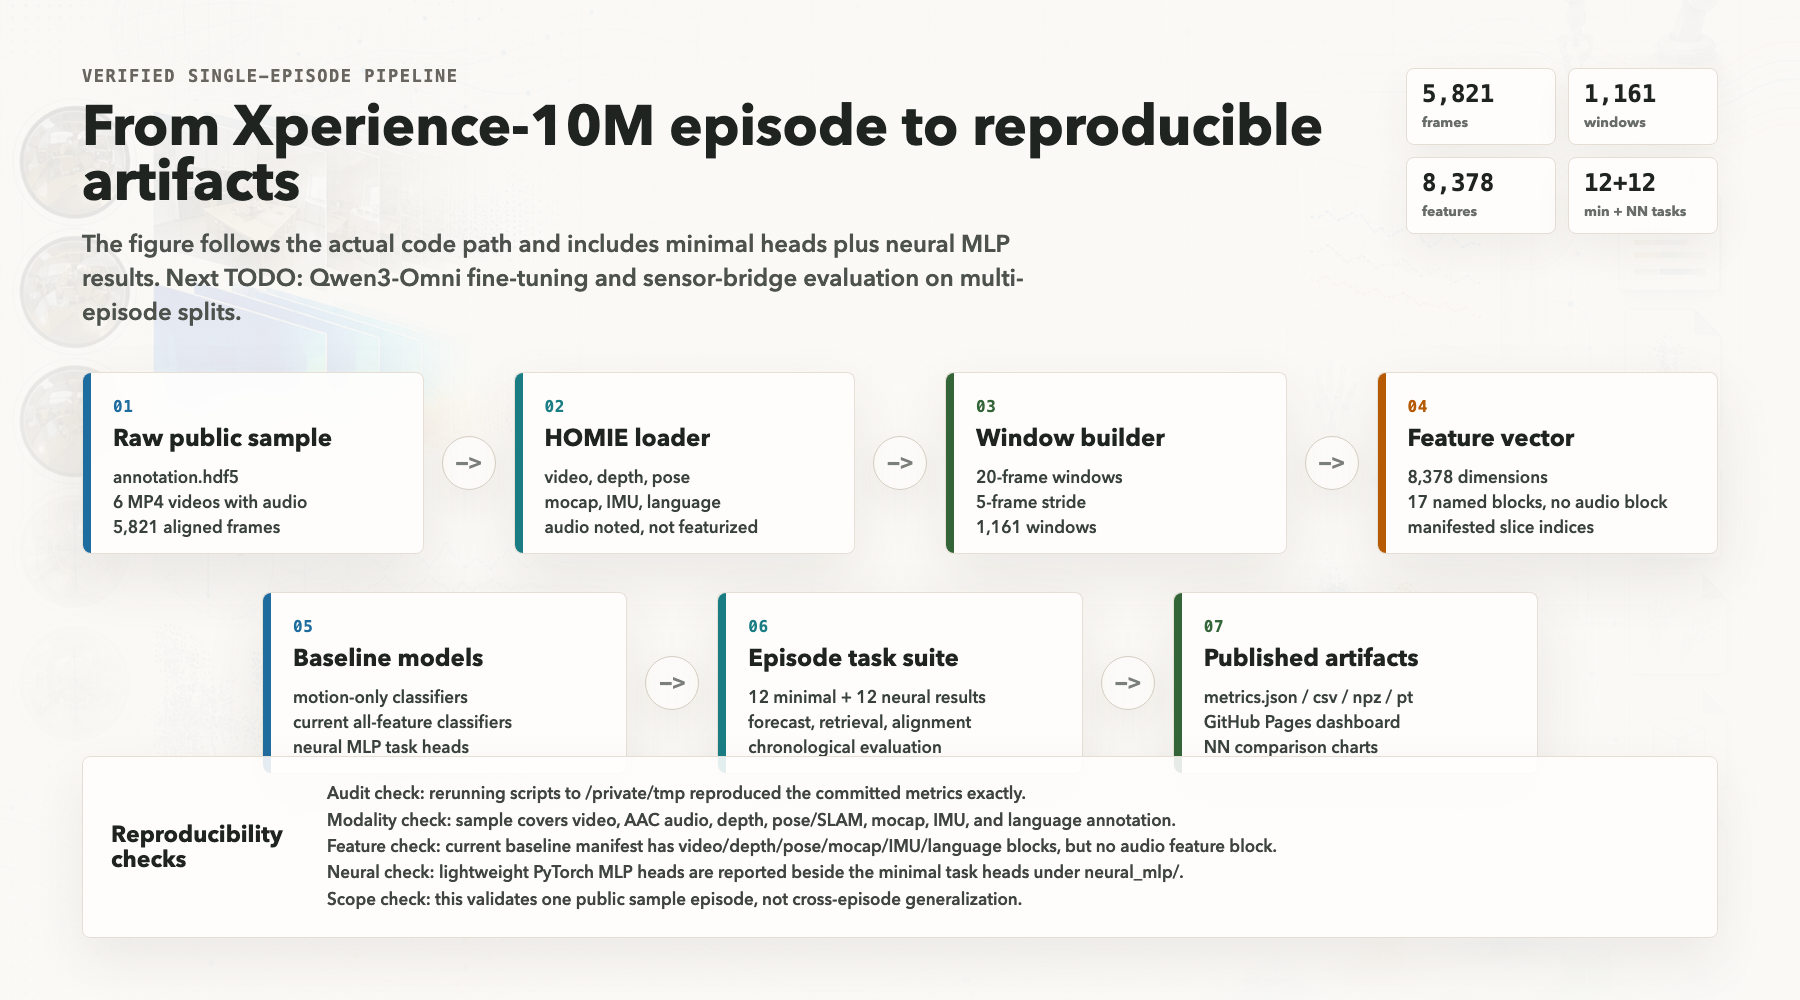
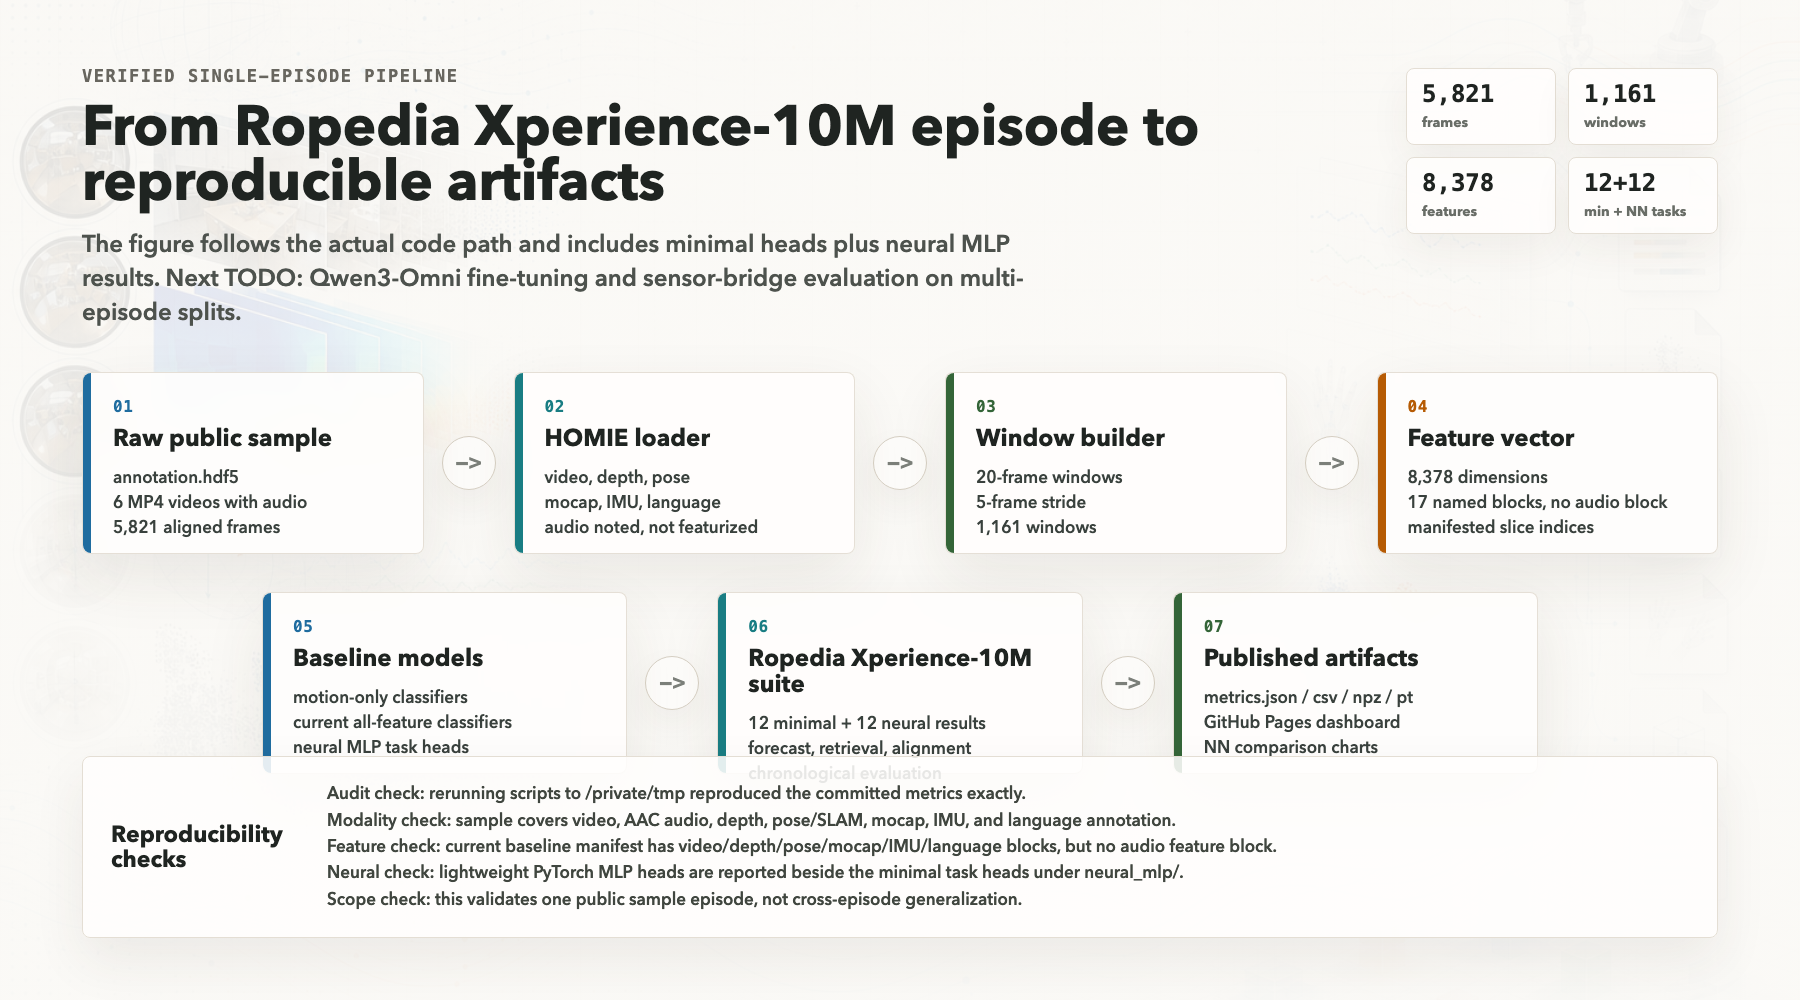
Rename project to Ropedia Xperience-10M

Changed region(s): [[0.0311, 0.093, 0.7467, 0.217], [0.4044, 0.651, 0.5911, 0.775]]

diff --git a/docs/index.html b/docs/index.html
@@ -3,9 +3,9 @@
 <head>
   <meta charset="utf-8">
   <meta name="viewport" content="width=device-width, initial-scale=1">
-  <title>Xperience-10M Episode Task Suite</title>
+  <title>Ropedia Xperience-10M Task Suite</title>
   <meta name="description" content="A transparent multimodal task suite for one public Xperience-10M sample episode released by Ropedia, with minimal and neural MLP baselines.">
-  <meta property="og:title" content="Xperience-10M Episode Task Suite">
+  <meta property="og:title" content="Ropedia Xperience-10M Task Suite">
   <meta property="og:description" content="One public embodied-AI episode, converted into reproducible multimodal tasks, minimal baselines, neural MLP baselines, metrics, and diagrams.">
   <meta property="og:image" content="assets/task_suite_infographic.png?v=xperience10m-nn">
   <style>
@@ -564,9 +564,9 @@
   <a class="skip-link" href="#main">Skip to content</a>
   <nav class="site-nav">
     <div class="wrap nav-inner">
-      <a class="brand" href="#top" aria-label="Xperience-10M Episode Task Suite home">
+      <a class="brand" href="#top" aria-label="Ropedia Xperience-10M Task Suite home">
         <span class="mark" aria-hidden="true">X</span>
-        <span>Xperience-10M Episode Task Suite</span>
+        <span>Ropedia Xperience-10M Task Suite</span>
       </a>
       <div class="nav-links" aria-label="Page navigation">
         <a href="#suite">Suite</a>
@@ -579,8 +579,8 @@
         <a href="#tasks">Tasks</a>
         <a href="#features">Signals</a>
         <a href="#artifacts">Artifacts</a>
-        <a class="nav-action" href="https://huggingface.co/spaces/cy0307/ropedia-episode-task-suite">HF Space</a>
-        <a class="nav-action" href="https://github.com/ChaoYue0307/ropedia-episode-task-suite">GitHub</a>
+        <a class="nav-action" href="https://huggingface.co/spaces/cy0307/ropedia-xperience-10m-task-suite">HF Space</a>
+        <a class="nav-action" href="https://github.com/ChaoYue0307/ropedia-xperience-10m-task-suite">GitHub</a>
       </div>
     </div>
   </nav>
@@ -589,7 +589,7 @@
     <div class="wrap hero-inner">
       <div>
         <div class="eyebrow">single public episode / verified artifacts</div>
-        <h1>One Xperience-10M episode, made auditable.</h1>
+        <h1>One Ropedia Xperience-10M episode, made auditable.</h1>
         <p class="hero-copy">
           A compact research lab for the public Xperience-10M sample from Ropedia:
           video, audio, depth, pose, motion capture, inertial sensing, and language annotation,
@@ -598,8 +598,8 @@
         </p>
         <div class="hero-actions">
           <a class="button primary" href="#suite">Inspect 12 tasks</a>
-          <a class="button" href="https://cy0307-ropedia-episode-task-suite.static.hf.space/">Open HF app</a>
-          <a class="button" href="https://github.com/ChaoYue0307/ropedia-episode-task-suite">View repository</a>
+          <a class="button" href="https://cy0307-ropedia-xperience-10m-task-suite.static.hf.space/">Open HF app</a>
+          <a class="button" href="https://github.com/ChaoYue0307/ropedia-xperience-10m-task-suite">View repository</a>
           <a class="button" href="data/summary_metrics.json">Read metrics JSON</a>
         </div>
         <div class="hero-stats">
@@ -628,10 +628,10 @@
     <section id="suite">
       <div class="wrap">
         <div class="section-head">
-          <h2>Xperience-10M 12-task suite, first.</h2>
+          <h2>Ropedia Xperience-10M 12-task suite, first.</h2>
           <p>The top-level map shows the Xperience-10M sample modalities and the verified 12-task results. Audio is present in the sample MP4 stream, but the current 8,378-d baseline manifest does not featurize it.</p>
         </div>
-        <img class="task-suite-image" src="assets/task_suite_infographic.png?v=xperience10m-nn" alt="ChatGPT-image-backed infographic showing all 12 Xperience-10M episode tasks">
+        <img class="task-suite-image" src="assets/task_suite_infographic.png?v=xperience10m-nn" alt="ChatGPT-image-backed infographic showing all 12 Ropedia Xperience-10M tasks">
       </div>
     </section>
 
@@ -742,7 +742,7 @@
           <h2>The 12 tasks share four head families.</h2>
           <p>The diagram separates the shared episode-window feature pipeline from the task-specific heads, and notes that audio remains dataset context rather than a current baseline feature block.</p>
         </div>
-        <img class="architecture-image" src="assets/task_architectures.png?v=xperience10m-nn" alt="Verified minimal and neural architecture diagram for all 12 Xperience-10M episode tasks">
+        <img class="architecture-image" src="assets/task_architectures.png?v=xperience10m-nn" alt="Verified minimal and neural architecture diagram for all 12 Ropedia Xperience-10M tasks">
       </div>
     </section>
 
@@ -831,22 +831,22 @@
           <p>Metrics, predictions, confusion matrices, manifests, lightweight model weights, and derived window artifacts are committed so the repo is reviewable before rerunning anything. Raw Xperience-10M data and Qwen weights are not redistributed.</p>
         </div>
         <div class="artifact-grid">
-          <article class="artifact"><h3>Task-suite report</h3><p>One JSON file with every task metric and split detail.</p><a href="https://github.com/ChaoYue0307/ropedia-episode-task-suite/blob/main/results/episode_task_suite/summary_report.json">summary_report.json</a></article>
-          <article class="artifact"><h3>Neural MLP task results</h3><p>Per-task PyTorch MLP metrics, predictions, histories, and checkpoints for the same 12 task contracts.</p><a href="https://github.com/ChaoYue0307/ropedia-episode-task-suite/tree/main/results/episode_task_suite/neural_mlp">neural_mlp/</a></article>
-          <article class="artifact"><h3>Four-direction taxonomy</h3><p>Generated JSON, CSV, Markdown, and website data mapping all 12 tasks to the four research tracks with two baselines.</p><a href="https://github.com/ChaoYue0307/ropedia-episode-task-suite/tree/main/results/episode_task_suite/research_directions">research_directions/</a></article>
-          <article class="artifact"><h3>Task walkthroughs</h3><p>Beginner-oriented case studies for all 12 tasks, including input, middle process modules, output, metric, and limitation.</p><a href="https://github.com/ChaoYue0307/ropedia-episode-task-suite/tree/main/results/episode_task_suite/task_walkthroughs">task_walkthroughs/</a></article>
-          <article class="artifact"><h3>Feature manifest</h3><p>Start/end index and dimension for every current feature block.</p><a href="https://github.com/ChaoYue0307/ropedia-episode-task-suite/blob/main/results/episode_task_suite/feature_manifest.json">feature_manifest.json</a></article>
-          <article class="artifact"><h3>Cross-modal retrieval</h3><p>The strongest self-supervised signal from the single episode.</p><a href="https://github.com/ChaoYue0307/ropedia-episode-task-suite/blob/main/results/episode_task_suite/cross_modal_retrieval/metrics.json">metrics.json</a></article>
-          <article class="artifact"><h3>Current all-feature action model</h3><p>Classifier metrics, predictions, confusion matrix, and model weights.</p><a href="https://github.com/ChaoYue0307/ropedia-episode-task-suite/blob/main/results/min_all_modalities_action_model/metrics.json">metrics.json</a></article>
-          <article class="artifact"><h3>Windows table</h3><p>Window start/end frames and aligned action/subtask labels.</p><a href="https://github.com/ChaoYue0307/ropedia-episode-task-suite/blob/main/results/episode_task_suite/windows.csv">windows.csv</a></article>
-          <article class="artifact"><h3>Reproduction scripts</h3><p>Three training scripts plus the dashboard generator.</p><a href="https://github.com/ChaoYue0307/ropedia-episode-task-suite/tree/main/scripts">scripts/</a></article>
-          <article class="artifact"><h3>Hugging Face Space</h3><p>The same dashboard packaged as a public static Space.</p><a href="https://huggingface.co/spaces/cy0307/ropedia-episode-task-suite">cy0307/ropedia-episode-task-suite</a></article>
-          <article class="artifact"><h3>Derived HF artifacts</h3><p>Metrics, predictions, docs, and lightweight derived files without raw Xperience-10M video/data redistribution.</p><a href="https://huggingface.co/datasets/cy0307/ropedia-episode-task-suite-artifacts">dataset repo</a></article>
-          <article class="artifact"><h3>HF baseline models</h3><p>Minimal NumPy softmax and ridge baseline weights with model card and architecture diagrams.</p><a href="https://huggingface.co/cy0307/ropedia-minimal-task-baselines">model repo</a></article>
-          <article class="artifact"><h3>A100 HF relay status</h3><p>HF full-dataset access is pending; an A100 watcher is ready to download a 32-session stratified pilot and transfer it to H20 once approved.</p><a href="https://github.com/ChaoYue0307/ropedia-episode-task-suite/blob/main/results/omni_finetune/A100_HF_RELAY_STATUS.md">A100_HF_RELAY_STATUS.md</a></article>
-          <article class="artifact"><h3>Qwen3-Omni readiness artifacts</h3><p>Manifests, metadata, metrics, and progress logs from the current smoke/evidence run. No real 32-episode metric is claimed yet.</p><a href="https://github.com/ChaoYue0307/ropedia-episode-task-suite/blob/main/results/omni_finetune/episode_manifest.json">episode_manifest.json</a></article>
-          <article class="artifact"><h3>32-episode data gate</h3><p>The readiness gate remains the source of truth before any full pilot training claim.</p><a href="https://github.com/ChaoYue0307/ropedia-episode-task-suite/blob/main/results/omni_finetune/DATA_BLOCKER_REPORT.md">DATA_BLOCKER_REPORT.md</a></article>
-          <article class="artifact"><h3>HF collection</h3><p>Space, artifacts, and model baselines grouped into one public project collection.</p><a href="https://huggingface.co/collections/cy0307/ropedia-episode-task-suite">collection</a></article>
+          <article class="artifact"><h3>Task-suite report</h3><p>One JSON file with every task metric and split detail.</p><a href="https://github.com/ChaoYue0307/ropedia-xperience-10m-task-suite/blob/main/results/episode_task_suite/summary_report.json">summary_report.json</a></article>
+          <article class="artifact"><h3>Neural MLP task results</h3><p>Per-task PyTorch MLP metrics, predictions, histories, and checkpoints for the same 12 task contracts.</p><a href="https://github.com/ChaoYue0307/ropedia-xperience-10m-task-suite/tree/main/results/episode_task_suite/neural_mlp">neural_mlp/</a></article>
+          <article class="artifact"><h3>Four-direction taxonomy</h3><p>Generated JSON, CSV, Markdown, and website data mapping all 12 tasks to the four research tracks with two baselines.</p><a href="https://github.com/ChaoYue0307/ropedia-xperience-10m-task-suite/tree/main/results/episode_task_suite/research_directions">research_directions/</a></article>
+          <article class="artifact"><h3>Task walkthroughs</h3><p>Beginner-oriented case studies for all 12 tasks, including input, middle process modules, output, metric, and limitation.</p><a href="https://github.com/ChaoYue0307/ropedia-xperience-10m-task-suite/tree/main/results/episode_task_suite/task_walkthroughs">task_walkthroughs/</a></article>
+          <article class="artifact"><h3>Feature manifest</h3><p>Start/end index and dimension for every current feature block.</p><a href="https://github.com/ChaoYue0307/ropedia-xperience-10m-task-suite/blob/main/results/episode_task_suite/feature_manifest.json">feature_manifest.json</a></article>
+          <article class="artifact"><h3>Cross-modal retrieval</h3><p>The strongest self-supervised signal from the single episode.</p><a href="https://github.com/ChaoYue0307/ropedia-xperience-10m-task-suite/blob/main/results/episode_task_suite/cross_modal_retrieval/metrics.json">metrics.json</a></article>
+          <article class="artifact"><h3>Current all-feature action model</h3><p>Classifier metrics, predictions, confusion matrix, and model weights.</p><a href="https://github.com/ChaoYue0307/ropedia-xperience-10m-task-suite/blob/main/results/min_all_modalities_action_model/metrics.json">metrics.json</a></article>
+          <article class="artifact"><h3>Windows table</h3><p>Window start/end frames and aligned action/subtask labels.</p><a href="https://github.com/ChaoYue0307/ropedia-xperience-10m-task-suite/blob/main/results/episode_task_suite/windows.csv">windows.csv</a></article>
+          <article class="artifact"><h3>Reproduction scripts</h3><p>Three training scripts plus the dashboard generator.</p><a href="https://github.com/ChaoYue0307/ropedia-xperience-10m-task-suite/tree/main/scripts">scripts/</a></article>
+          <article class="artifact"><h3>Hugging Face Space</h3><p>The same dashboard packaged as a public static Space.</p><a href="https://huggingface.co/spaces/cy0307/ropedia-xperience-10m-task-suite">cy0307/ropedia-xperience-10m-task-suite</a></article>
+          <article class="artifact"><h3>Derived HF artifacts</h3><p>Metrics, predictions, docs, and lightweight derived files without raw Xperience-10M video/data redistribution.</p><a href="https://huggingface.co/datasets/cy0307/ropedia-xperience-10m-task-suite-artifacts">dataset repo</a></article>
+          <article class="artifact"><h3>HF baseline models</h3><p>Minimal NumPy softmax and ridge baseline weights with model card and architecture diagrams.</p><a href="https://huggingface.co/cy0307/ropedia-xperience-10m-task-baselines">model repo</a></article>
+          <article class="artifact"><h3>A100 HF relay status</h3><p>HF full-dataset access is pending; an A100 watcher is ready to download a 32-session stratified pilot and transfer it to H20 once approved.</p><a href="https://github.com/ChaoYue0307/ropedia-xperience-10m-task-suite/blob/main/results/omni_finetune/A100_HF_RELAY_STATUS.md">A100_HF_RELAY_STATUS.md</a></article>
+          <article class="artifact"><h3>Qwen3-Omni readiness artifacts</h3><p>Manifests, metadata, metrics, and progress logs from the current smoke/evidence run. No real 32-episode metric is claimed yet.</p><a href="https://github.com/ChaoYue0307/ropedia-xperience-10m-task-suite/blob/main/results/omni_finetune/episode_manifest.json">episode_manifest.json</a></article>
+          <article class="artifact"><h3>32-episode data gate</h3><p>The readiness gate remains the source of truth before any full pilot training claim.</p><a href="https://github.com/ChaoYue0307/ropedia-xperience-10m-task-suite/blob/main/results/omni_finetune/DATA_BLOCKER_REPORT.md">DATA_BLOCKER_REPORT.md</a></article>
+          <article class="artifact"><h3>HF collection</h3><p>Space, artifacts, and model baselines grouped into one public project collection.</p><a href="https://huggingface.co/collections/cy0307/ropedia-xperience-10m-task-suite">collection</a></article>
         </div>
       </div>
     </section>
@@ -881,8 +881,8 @@ hf download ropedia-ai/xperience-10m-sample \
   --repo-type dataset \
   --local-dir data/sample/xperience-10m-sample
 
-git clone https://github.com/ChaoYue0307/ropedia-episode-task-suite.git
-cd ropedia-episode-task-suite
+git clone https://github.com/ChaoYue0307/ropedia-xperience-10m-task-suite.git
+cd ropedia-xperience-10m-task-suite
 python scripts/episode_task_suite.py --workspace /path/to/workspace --include-neural
 python scripts/generate_visualizations.py</code></pre>
       </div>

diff --git a/scripts/generate_visualizations.py b/scripts/generate_visualizations.py
@@ -24,6 +24,22 @@ DOCS = ROOT / "docs"
 ASSETS = DOCS / "assets"
 CHARTS = ASSETS / "charts"
 
+OMNI_RELAY = {
+    "status": "pending_huggingface_gated_access",
+    "dataset": "ropedia-ai/xperience-10m",
+    "relay_server": "ANGEL-A100-80Gx4",
+    "training_server": "ANGEL-H20-96GX8",
+    "selection_strategy": "stratified_round_robin_by_top_level_session",
+    "target_episodes": 32,
+    "selected_sessions": 32,
+    "candidate_scan_top_level_sessions": 64,
+    "valid_candidates": 680,
+    "estimated_bytes": 72031620552,
+    "exclude": ["visualization.rrd"],
+    "blocker": "Hugging Face returns 403 pending review for the full Xperience-10M gated dataset.",
+    "claim_boundary": "No real 32-episode fine-tune is claimed until the watcher downloads data, transfers it to H20, and the held-out evaluation runs.",
+}
+
 
 def read_json(path: Path) -> dict:
     return json.loads(path.read_text(encoding="utf-8"))
@@ -100,7 +116,7 @@ def svg_pipeline_diagram(path: Path, summary: dict) -> None:
             "numpy softmax classifier",
             "metrics and predictions",
         ], "#1f63e9"),
-        (520, 380, 360, 168, "6. Episode task suite", [
+        (520, 380, 360, 168, "6. Ropedia Xperience-10M suite", [
             f"{task_count} supervised/self-supervised tasks",
             "chronological split",
             "retrieval, forecast, alignment",
@@ -117,7 +133,7 @@ def svg_pipeline_diagram(path: Path, summary: dict) -> None:
         f'<svg xmlns="http://www.w3.org/2000/svg" width="{width}" height="{height}" viewBox="0 0 {width} {height}">',
         '<rect width="100%" height="100%" fill="#ffffff"/>',
         '<rect x="0" y="0" width="1400" height="760" fill="#ffffff"/>',
-        '<text x="60" y="58" font-family="Arial, sans-serif" font-size="32" font-weight="700" fill="#10141f">Verified Xperience-10M Episode Pipeline</text>',
+        '<text x="60" y="58" font-family="Arial, sans-serif" font-size="32" font-weight="700" fill="#10141f">Verified Ropedia Xperience-10M Pipeline</text>',
         '<text x="60" y="88" font-family="Arial, sans-serif" font-size="16" fill="#5b6475">Generated from committed scripts and metrics; no conceptual placeholder stages.</text>',
     ]
     arrows = [
@@ -333,7 +349,7 @@ def svg_task_architectures(path: Path, summary: dict) -> None:
         f'<svg xmlns="http://www.w3.org/2000/svg" width="{width}" height="{height}" viewBox="0 0 {width} {height}">',
         '<defs><marker id="arrow2" viewBox="0 0 10 10" refX="8" refY="5" markerWidth="7" markerHeight="7" orient="auto-start-reverse"><path d="M 0 0 L 10 5 L 0 10 z" fill="#cbd5e1"/></marker></defs>',
         '<rect width="100%" height="100%" fill="#ffffff"/>',
-        '<text x="60" y="56" font-family="Arial, sans-serif" font-size="34" font-weight="700" fill="#10141f">Minimal Architectures for the 12 Xperience-10M Episode Tasks</text>',
+        '<text x="60" y="56" font-family="Arial, sans-serif" font-size="34" font-weight="700" fill="#10141f">Minimal Architectures for 12 Ropedia Xperience-10M Tasks</text>',
         '<text x="60" y="88" font-family="Arial, sans-serif" font-size="16" fill="#5b6475">Generated from scripts/episode_task_suite.py semantics and committed summary metrics. These are minimal baselines, not deep foundation models.</text>',
     ]
 
@@ -419,6 +435,7 @@ def collect_summary() -> dict:
     suite = read_json(RESULTS / "episode_task_suite/summary_report.json")
     manifest = read_json(RESULTS / "episode_task_suite/feature_manifest.json")
     return {
+        "omni_relay": OMNI_RELAY,
         "models": {
             "motion_action": min_action,
             "motion_subtask": min_subtask,
@@ -453,13 +470,13 @@ def generate_charts(summary: dict) -> None:
     task_rows = []
     for task_name, metrics in suite.items():
         task_rows.append((task_name, task_score(metrics)))
-    svg_bar_chart(CHARTS / "episode_task_scores.svg", "Episode Task Suite: Main Scores", task_rows, max_value=1.0)
+    svg_bar_chart(CHARTS / "episode_task_scores.svg", "Ropedia Xperience-10M Suite: Main Scores", task_rows, max_value=1.0)
 
     neural = summary["suite"].get("neural_tasks", {})
     if neural:
         neural_rows = [(task_name, task_score(metrics)) for task_name, metrics in neural.items() if "error" not in metrics]
         if neural_rows:
-            svg_bar_chart(CHARTS / "episode_task_scores_neural_mlp.svg", "Episode Task Suite: Neural MLP Main Scores", neural_rows, max_value=1.0)
+            svg_bar_chart(CHARTS / "episode_task_scores_neural_mlp.svg", "Ropedia Xperience-10M Suite: Neural MLP Main Scores", neural_rows, max_value=1.0)
 
         comparison_rows = []
         for task_name, metrics in suite.items():
@@ -484,7 +501,7 @@ def generate_charts(summary: dict) -> None:
 def write_summary_data(summary: dict) -> None:
     DOCS.mkdir(parents=True, exist_ok=True)
     (DOCS / "data").mkdir(parents=True, exist_ok=True)
-    (DOCS / "data/summary_metrics.json").write_text(json.dumps(summary, indent=2), encoding="utf-8")
+    (DOCS / "data/summary_metrics.json").write_text(json.dumps(summary, indent=2) + "\n", encoding="utf-8")
 
 
 def main() -> int:

diff --git a/scripts/render_overview_figures.py b/scripts/render_overview_figures.py
@@ -139,7 +139,7 @@ def build_pipeline_html(summary: dict, base_path: Path) -> str:
             arrow(),
             stage_card(
                 "06",
-                "Episode task suite",
+                "Ropedia Xperience-10M suite",
                 [f"{task_count} minimal + {neural_count} neural results", "forecast, retrieval, alignment", "chronological evaluation"],
                 COLORS["teal"],
             ),
@@ -358,7 +358,7 @@ def build_pipeline_html(summary: dict, base_path: Path) -> str:
       <header>
         <div>
           <div class="kicker">verified single-episode pipeline</div>
-          <h1>From Xperience-10M episode to reproducible artifacts</h1>
+          <h1>From Ropedia Xperience-10M episode to reproducible artifacts</h1>
           <p class="subtitle">The figure follows the actual code path and includes minimal heads plus neural MLP results. Next TODO: Qwen3-Omni fine-tuning and sensor-bridge evaluation on multi-episode splits.</p>
         </div>
         <div class="metrics">
@@ -697,7 +697,7 @@ def build_architecture_html(summary: dict, base_path: Path) -> str:
       <header>
         <div>
           <div class="kicker">minimal + neural verified model architectures</div>
-          <h1>12 Xperience-10M episode tasks, minimal and NN heads</h1>
+          <h1>12 Ropedia Xperience-10M tasks, minimal and NN heads</h1>
           <p class="subtitle">Each task uses the same aligned episode-window contract. The figure shows minimal heads beside neural MLP metrics; next TODO is Qwen3-Omni fine-tuning with sensor-bridge evaluation.</p>
         </div>
         <div class="summary-pill"><strong>{len(suite['tasks'])}+{neural_count}</strong><span>min + NN tasks</span></div>

diff --git a/scripts/render_task_suite_infographic.py b/scripts/render_task_suite_infographic.py
@@ -1,6 +1,6 @@
 #!/usr/bin/env python3
 """
-Render a polished 12-task Xperience-10M episode-suite infographic.
+Render a polished Ropedia Xperience-10M 12-task infographic.
 
 The task names, inputs, and metrics are read from
 results/episode_task_suite/summary_report.json. The output is a deterministic
@@ -913,13 +913,13 @@ def build_html(summary: dict, base_image: Path | None, sample_dir: Path | None) 
   </style>
 </head>
 <body>
-  <main class="canvas" aria-label="Xperience-10M 12-task episode suite infographic">
+  <main class="canvas" aria-label="Ropedia Xperience-10M 12-task suite infographic">
     {base_layer}
     <div class="content">
     <header class="header">
       <div>
         <div class="kicker">verified single-episode task suite</div>
-        <h1>Xperience-10M 12-task episode suite</h1>
+        <h1>Ropedia Xperience-10M 12-task suite</h1>
         <p class="subtitle">A clean map from synchronized multimodal windows to 12 auditable task heads, comparing minimal heads with neural MLP results. Next TODO: Qwen3-Omni fine-tuning plus sensor-bridge evaluation.</p>
       </div>
       <div class="stats">{stats_html}</div>

diff --git a/README.md b/README.md
@@ -1,7 +1,7 @@
-# Xperience-10M Episode Task Suite
+# Ropedia Xperience-10M Task Suite
 
-[![Website](https://img.shields.io/badge/site-GitHub%20Pages-1f63e9)](https://chaoyue0307.github.io/ropedia-episode-task-suite/)
-[![HF Space](https://img.shields.io/badge/Hugging%20Face-Space-ffb000)](https://huggingface.co/spaces/cy0307/ropedia-episode-task-suite)
+[![Website](https://img.shields.io/badge/site-GitHub%20Pages-1f63e9)](https://chaoyue0307.github.io/ropedia-xperience-10m-task-suite/)
+[![HF Space](https://img.shields.io/badge/Hugging%20Face-Space-ffb000)](https://huggingface.co/spaces/cy0307/ropedia-xperience-10m-task-suite)
 [![Dataset](https://img.shields.io/badge/dataset-Xperience--10M%20by%20Ropedia-008b9a)](https://github.com/Ropedia)
 [![Scope](https://img.shields.io/badge/scope-single%20public%20sample-b65b04)](#scope)
 
@@ -37,11 +37,11 @@ This repo keeps that distinction explicit:
 
 Start with the visual dashboard:
 
-**[chaoyue0307.github.io/ropedia-episode-task-suite](https://chaoyue0307.github.io/ropedia-episode-task-suite/)**
+**[chaoyue0307.github.io/ropedia-xperience-10m-task-suite](https://chaoyue0307.github.io/ropedia-xperience-10m-task-suite/)**
 
 Hugging Face Space app:
 
-**[cy0307-ropedia-episode-task-suite.static.hf.space](https://cy0307-ropedia-episode-task-suite.static.hf.space/)**
+**[cy0307-ropedia-xperience-10m-task-suite.static.hf.space](https://cy0307-ropedia-xperience-10m-task-suite.static.hf.space/)**
 
 ## Read This Project In Three Layers
 
@@ -56,13 +56,13 @@ Hugging Face Space app:
 
 | Resource | Link |
 | --- | --- |
-| This GitHub repo | [github.com/ChaoYue0307/ropedia-episode-task-suite](https://github.com/ChaoYue0307/ropedia-episode-task-suite) |
-| This project website | [chaoyue0307.github.io/ropedia-episode-task-suite](https://chaoyue0307.github.io/ropedia-episode-task-suite/) |
-| This Hugging Face Space | [huggingface.co/spaces/cy0307/ropedia-episode-task-suite](https://huggingface.co/spaces/cy0307/ropedia-episode-task-suite) |
-| Live Hugging Face static app | [cy0307-ropedia-episode-task-suite.static.hf.space](https://cy0307-ropedia-episode-task-suite.static.hf.space/) |
-| Derived artifacts on Hugging Face | [huggingface.co/datasets/cy0307/ropedia-episode-task-suite-artifacts](https://huggingface.co/datasets/cy0307/ropedia-episode-task-suite-artifacts) |
-| Minimal baseline models on Hugging Face | [huggingface.co/cy0307/ropedia-minimal-task-baselines](https://huggingface.co/cy0307/ropedia-minimal-task-baselines) |
-| Hugging Face collection | [huggingface.co/collections/cy0307/ropedia-episode-task-suite](https://huggingface.co/collections/cy0307/ropedia-episode-task-suite) |
+| This GitHub repo | [github.com/ChaoYue0307/ropedia-xperience-10m-task-suite](https://github.com/ChaoYue0307/ropedia-xperience-10m-task-suite) |
+| This project website | [chaoyue0307.github.io/ropedia-xperience-10m-task-suite](https://chaoyue0307.github.io/ropedia-xperience-10m-task-suite/) |
+| This Hugging Face Space | [huggingface.co/spaces/cy0307/ropedia-xperience-10m-task-suite](https://huggingface.co/spaces/cy0307/ropedia-xperience-10m-task-suite) |
+| Live Hugging Face static app | [cy0307-ropedia-xperience-10m-task-suite.static.hf.space](https://cy0307-ropedia-xperience-10m-task-suite.static.hf.space/) |
+| Derived artifacts on Hugging Face | [huggingface.co/datasets/cy0307/ropedia-xperience-10m-task-suite-artifacts](https://huggingface.co/datasets/cy0307/ropedia-xperience-10m-task-suite-artifacts) |
+| Minimal and neural task baselines on Hugging Face | [huggingface.co/cy0307/ropedia-xperience-10m-task-baselines](https://huggingface.co/cy0307/ropedia-xperience-10m-task-baselines) |
+| Hugging Face collection | [huggingface.co/collections/cy0307/ropedia-xperience-10m-task-suite](https://huggingface.co/collections/cy0307/ropedia-xperience-10m-task-suite) |
 | Xperience-10M dataset website | [ropedia.com/dataset](https://ropedia.com/dataset) |
 | Xperience-10M release page | [ropedia.com/blog/20260316_xperience_10m](https://ropedia.com/blog/20260316_xperience_10m) |
 | Ropedia GitHub organization | [github.com/Ropedia](https://github.com/Ropedia) |
@@ -71,7 +71,7 @@ Hugging Face Space app:
 | Xperience-10M sample on Hugging Face | [huggingface.co/datasets/ropedia-ai/xperience-10m-sample](https://huggingface.co/datasets/ropedia-ai/xperience-10m-sample) |
 | Ropedia Hugging Face organization | [huggingface.co/ropedia-ai](https://huggingface.co/ropedia-ai) |
 
-![ChatGPT-image-backed Xperience-10M 12-task infographic](docs/assets/task_suite_infographic.png?v=xperience10m-nn)
+![ChatGPT-image-backed Ropedia Xperience-10M 12-task infographic](docs/assets/task_suite_infographic.png?v=xperience10m-nn)
 
 The infographic uses a ChatGPT-image-generated text-free research background and
 low-resolution modality thumbnails extracted from the public sample episode. The
@@ -210,8 +210,8 @@ still skipping `visualization.rrd`.
 Clone and run this repo:
 
 ```bash
-git clone https://github.com/ChaoYue0307/ropedia-episode-task-suite.git
-cd ropedia-episode-task-suite
+git clone https://github.com/ChaoYue0307/ropedia-xperience-10m-task-suite.git
+cd ropedia-xperience-10m-task-suite
 python scripts/episode_task_suite.py --workspace /path/to/workspace
 ```
 
@@ -258,7 +258,7 @@ python scripts/omni/build_episode_manifest.py \
   --output outputs/omni_exploration/modelscope_manifest.json
 
 python scripts/omni/qwen3_omni_adapter_smoke.py \
-  --workspace /home/cy/Ropedia/ropedia-episode-task-suite \
+  --workspace /home/cy/Ropedia/ropedia-xperience-10m-task-suite \
   --episode-root /home/cy/Ropedia/modelscope_data/xperience-10m-sample \
   --target action \
   --window-frames 20 \
@@ -333,7 +333,7 @@ python scripts/render_task_suite_infographic.py
 
 ```bash
 python scripts/omni/discover_xperience10m_sources.py \
-  --workspace /home/cy/Ropedia/ropedia-episode-task-suite \
+  --workspace /home/cy/Ropedia/ropedia-xperience-10m-task-suite \
   --data-root /home/cy/Ropedia/modelscope_data \
   --output results/omni_finetune/source_discovery.json \
   --report-output results/omni_finetune/DATA_BLOCKER_REPORT.md

diff --git a/notes/reproducibility_audit.md b/notes/reproducibility_audit.md
@@ -2,7 +2,7 @@
 
 Audit date: 2026-05-30 Asia/Singapore.
 
-Purpose: verify that the committed Xperience-10M Episode Task Suite artifacts are
+Purpose: verify that the committed Ropedia Xperience-10M Task Suite artifacts are
 real outputs from the scripts, not placeholder or fabricated metrics.
 
 ## Raw Inputs Checked